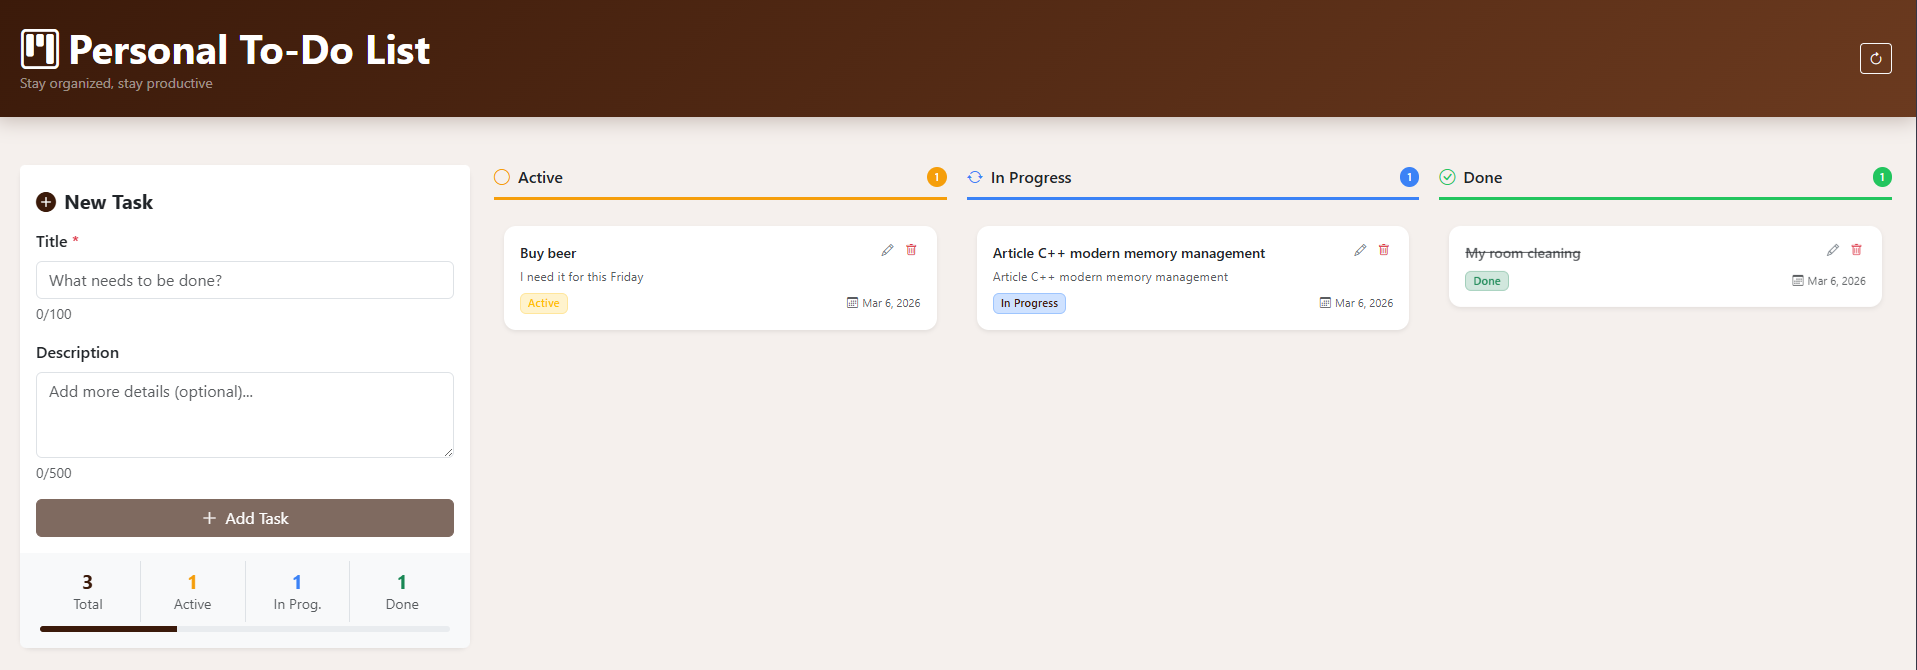
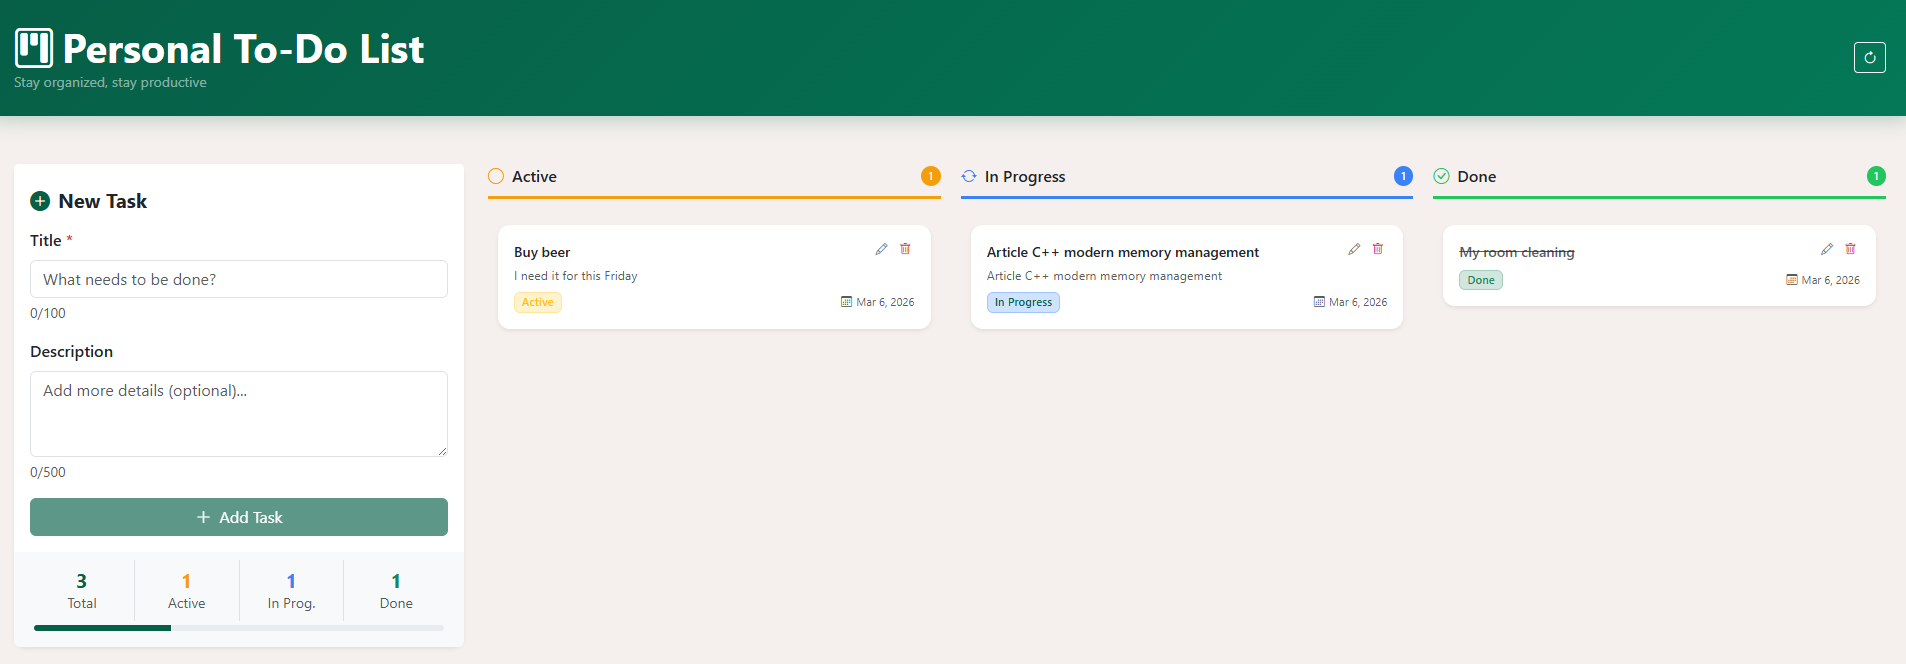
cleaning

diff --git a/client/src/index.css b/client/src/index.css
@@ -1,11 +1,11 @@
 /* ── Color Tokens ───────────────────────────────────────────────────────────── */
 
 :root {
-  --color-primary:        #3b1a0a;   /* dark brown */
-  --color-primary-light:  #6b3a1f;   /* medium brown */
-  --color-primary-hover:  #2a1007;   /* deeper brown for hover */
-  --color-primary-shadow: rgba(59, 26, 10, 0.25);
-  --color-primary-subtle: #f5ede8;   /* warm off-white tint */
+  --color-primary:        #065f46;   /* emerald 800 (darker) */
+  --color-primary-light:  #047857;   /* emerald 700 (still rich) */
+  --color-primary-hover:  #064e3b;   /* emerald 900 (deepest hover) */
+  --color-primary-shadow: rgba(6, 95, 70, 0.25);
+  --color-primary-subtle: #ecfdf5;   /* light green tint */
 }
 
 /* ── App Shell ──────────────────────────────────────────────────────────────── */
@@ -29,7 +29,7 @@
 
 .task-card:hover {
   transform: translateY(-2px);
-  box-shadow: 0 6px 20px rgba(59, 26, 10, 0.12) !important;
+  box-shadow: 0 6px 20px rgba(4, 120, 87, 0.12) !important;
 }
 
 .task-completed {
@@ -105,7 +105,7 @@
 
 ::-webkit-scrollbar        { width: 6px; }
 ::-webkit-scrollbar-track  { background: transparent; }
-::-webkit-scrollbar-thumb  { background-color: #c9a99a; border-radius: 3px; }
+::-webkit-scrollbar-thumb  { background-color: #34d399; border-radius: 3px; }
 
 /* ── Badge tweaks ───────────────────────────────────────────────────────────── */
 
